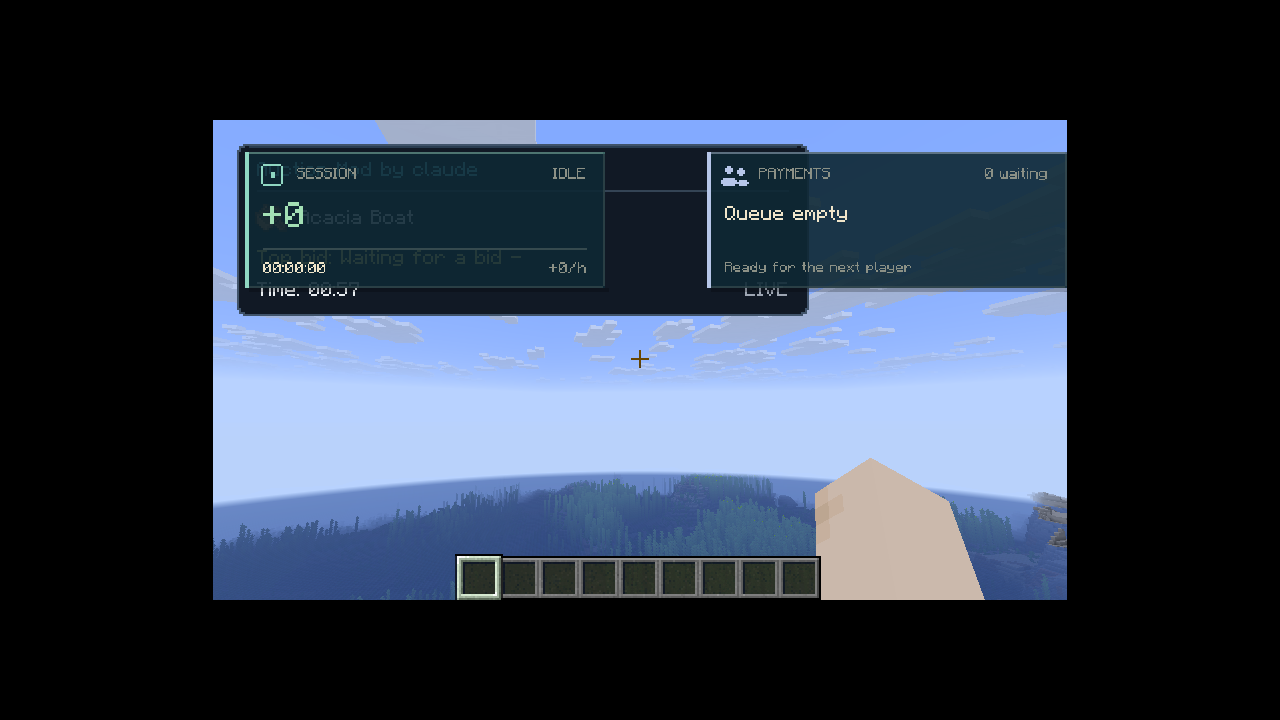
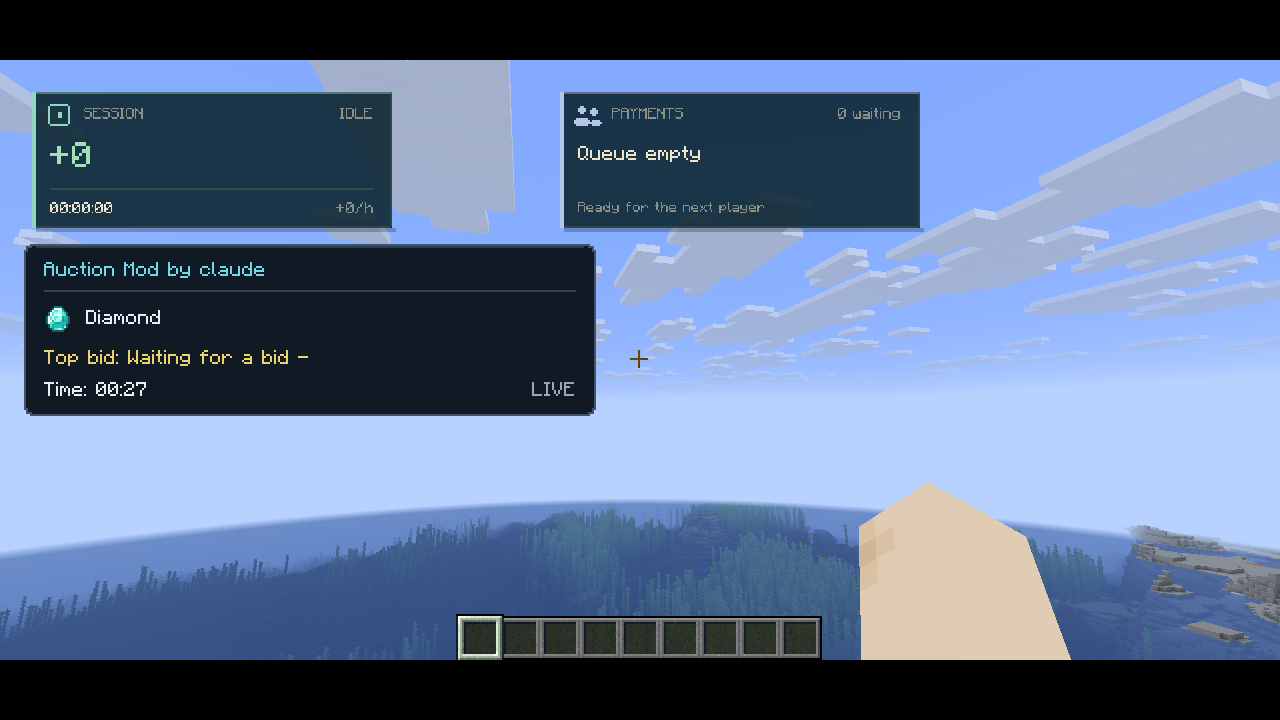
Keep unified auction HUD clear of tracker panels

diff --git a/fabric/src/main/java/dev/donuttracker/fabric/DonutTrackerClient.java b/fabric/src/main/java/dev/donuttracker/fabric/DonutTrackerClient.java
@@ -62,6 +62,7 @@ public final class DonutTrackerClient implements ClientModInitializer {
         try { StateStore.load(state, tracker, queue); } catch (IOException ex) { stateWritable = false; LOG.error("History could not be read; original file preserved", ex); status = "Invalid history file: " + state; }
         CoastalStyle.configure(settings);
         auctions.onInitializeClient();
+        auctions.setHudPlacement(this::auctionHudY);
         auctions.setScreenFactory(parent->new dev.auctionmod.AuctionScreen(auctions,parent,new AuctionModuleHost(this)));
         KeyMapping menu = KeyBindingHelper.registerKeyBinding(new KeyMapping("key.donuttracker.settings", InputConstants.Type.KEYSYM, GLFW.GLFW_KEY_RIGHT_SHIFT, KeyMapping.Category.MISC));
         ClientTickEvents.END_CLIENT_TICK.register(client -> {
@@ -114,6 +115,15 @@ public final class DonutTrackerClient implements ClientModInitializer {
         });
         ClientLifecycleEvents.CLIENT_STOPPING.register(client -> {ocean.stop(client);save();});
         LOG.info("Donut Tracker initialized; press Right Shift for settings.");
+    }
+    private int auctionHudY(int sw,int sh,int x,int y,int width,int height){
+        boolean overlap=false;int below=y;
+        for(var hud:new Settings.Hud[]{settings.profit,settings.queue}){
+            if(!hud.enabled)continue;
+            int hx=TrackerHud.x(hud,sw),hy=TrackerHud.y(hud,sh),hw=(int)Math.ceil(TrackerHud.width()*hud.scale),hh=(int)Math.ceil(TrackerHud.height(hud)*hud.scale);
+            if(x<hx+hw&&x+width>hx){below=Math.max(below,hy+hh+8);if(y<hy+hh&&y+height>hy)overlap=true;}
+        }
+        return overlap?Math.min(Math.max(0,sh-height),below):y;
     }
     private void observeLever(Minecraft client){
         if(!leverAdvance.pending())return;

diff --git a/auctionmod/src/main/java/dev/auctionmod/AuctionHud.java b/auctionmod/src/main/java/dev/auctionmod/AuctionHud.java
@@ -9,6 +9,7 @@ public final class AuctionHud {
         var client=Minecraft.getInstance();var view=mod.auction.snapshot();var phase=view.phase();
         if(client.player==null||client.options.hideGui||phase==AuctionState.Phase.IDLE)return;
         int w=Math.min(286,g.guiWidth()-8),h=86,x=Math.clamp(mod.config.hudX,0,Math.max(0,g.guiWidth()-w)),y=Math.clamp(mod.config.hudY,0,Math.max(0,g.guiHeight()-h));
+        if(mod.hudPlacement!=null)y=Math.clamp(mod.hudPlacement.y(g.guiWidth(),g.guiHeight(),x,y,w,h),0,Math.max(0,g.guiHeight()-h));
         AuctionUi.panel(g,x,y,w,h,mod.config.glassPanels);
         AuctionUi.text(g,"Auction Mod by claude",x+10,y+9,AuctionUi.CYAN);
         g.fill(x+10,y+23,x+w-10,y+24,0xFF344455);

diff --git a/auctionmod/src/main/java/dev/auctionmod/AuctionModClient.java b/auctionmod/src/main/java/dev/auctionmod/AuctionModClient.java
@@ -24,6 +24,9 @@ public final class AuctionModClient implements ClientModInitializer {
     final AuctionState auction=new AuctionState();
     final Path configPath=FabricLoader.getInstance().getConfigDir().resolve("auctionmod.json");
     AuctionConfig config;
+    public interface HudPlacement { int y(int screenWidth,int screenHeight,int x,int y,int width,int height); }
+    HudPlacement hudPlacement;
+    public void setHudPlacement(HudPlacement placement){hudPlacement=placement;}
     private PaymentParser parser;
     private java.util.function.Function<net.minecraft.client.gui.screens.Screen,net.minecraft.client.gui.screens.Screen> screenFactory;
     ItemStack auctionItem=ItemStack.EMPTY;

diff --git a/README.md b/README.md
@@ -1,5 +1,5 @@
 ## Unified mod — 1.13.0
-**One JAR, one Fabric mod ID, one initializer:** Donut Tracker + Auctions. Auctions now appear beside Tracker and Payments in the Right Shift module sidebar, inside the same branded GUI shell. O opens that same Auctions module view. Includes the tracker, payment queue, auction HUD, glass menus/HUDs, 13 atmospheres and 15 sounds. Existing tracker and auction configuration paths are retained.
+**One JAR, one Fabric mod ID, one initializer:** Donut Tracker + Auctions. Auctions now appear beside Tracker and Payments in the Right Shift module sidebar, inside the same branded GUI shell. O opens that same Auctions module view. Includes the tracker, payment queue, auction HUD, glass menus/HUDs, 13 atmospheres and 15 sounds. Existing tracker and auction configuration paths are retained. When auction and tracker HUD positions would overlap, the auction HUD is placed below the tracker without rewriting saved positions.
 
 Remove both the old Donut Tracker JAR and the separate auctionmod JAR, then install only `donut-tracker-fabric-1.21.11-1.13.0.jar` alongside Fabric API. Do not install the old separate Auction Mod; the loader reports that incompatible combination instead of registering duplicate handlers.
 
